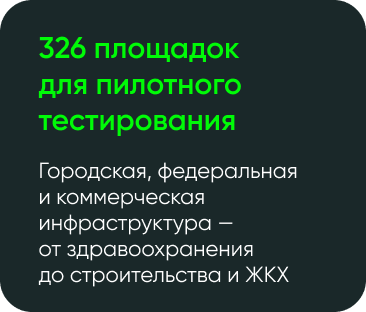
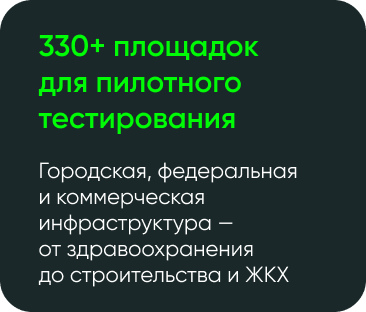
change mik-383

diff --git a/mik-383/Тестируйте инновации в Москве.html b/mik-383/Тестируйте инновации в Москве.html
@@ -102,7 +102,7 @@
                                         <tbody>
                                         <tr>
                                             <td style="width:600px;">
-                                                <a href="https://i.moscow/pilot?utm_source=marketing&utm_medium=email&utm_campaign=digital&utm_content=pilot&utm_term=16062026" target="_blank">
+                                                <a href="https://i.moscow/pilot?utm_source=marketing&utm_medium=email&utm_campaign=digital&utm_content=pilot&utm_term=13082026" target="_blank">
                                                     <img alt="Тестируйте инновации в Москве и получите грант до 4 млн ₽. Ваше решение – в реальных условиях мегаполиса. Нажмите здесь, чтобы оставить заявку." height="auto" src="https://cp.unisender.com/ru/user_file?resource=images&user_id=5608985&name=mik-383-hero.png" style="border:0;display:block;outline:none;text-decoration:none;height:auto;width:100%;font-size:13px;" width="600" />
                                                 </a>
                                             </td>
@@ -184,7 +184,7 @@
                                         <tbody>
                                         <tr>
                                             <td style="width:183px;">
-                                                <img alt="326 площадок для пилотного тестирования. Городская, федеральная и коммерческая инфраструктура — от здравоохранения до строительства и ЖКХ" height="auto" src="https://cp.unisender.com/ru/user_file?resource=images&user_id=5608985&name=mik-383-content-img-1_1.png" style="border:0;display:block;outline:none;text-decoration:none;height:auto;width:100%;font-size:13px;" width="183" />
+                                                <img alt="330+ площадок для пилотного тестирования. Городская, федеральная и коммерческая инфраструктура — от здравоохранения до строительства и ЖКХ" height="auto" src="https://cp.unisender.com/ru/user_file?resource=images&user_id=5608985&name=mik-383-content-img-1_1.png" style="border:0;display:block;outline:none;text-decoration:none;height:auto;width:100%;font-size:13px;" width="183" />
                                             </td>
                                         </tr>
                                         </tbody>
@@ -204,7 +204,7 @@
                                         <tbody>
                                         <tr>
                                             <td style="width:183px;">
-                                                <img alt="5,6+ млрд рублей. Сумма закупленных решений участников — реальные контракты, а не прогнозы в презентациях" height="auto" src="https://cp.unisender.com/ru/user_file?resource=images&user_id=5608985&name=mik-383-content-img-1_2.png" style="border:0;display:block;outline:none;text-decoration:none;height:auto;width:100%;font-size:13px;" width="183" />
+                                                <img alt="12+ млрд рублей. Сумма закупленных решений участников — реальные контракты, а не прогнозы в презентациях" height="auto" src="https://cp.unisender.com/ru/user_file?resource=images&user_id=5608985&name=mik-383-content-img-1_2.png" style="border:0;display:block;outline:none;text-decoration:none;height:auto;width:100%;font-size:13px;" width="183" />
                                             </td>
                                         </tr>
                                         </tbody>
@@ -224,7 +224,7 @@
                                         <tbody>
                                         <tr>
                                             <td style="width:183px;">
-                                                <img alt="780+ запущенных пилотных тестирований. Новые технологии, которые прошли этап апробации и получили реальный шанс на масштабирование" height="auto" src="https://cp.unisender.com/ru/user_file?resource=images&user_id=5608985&name=mik-383-content-img-1_3.png" style="border:0;display:block;outline:none;text-decoration:none;height:auto;width:100%;font-size:13px;" width="183" />
+                                                <img alt="800+ запущенных пилотных тестирований. Новые технологии, которые прошли этап апробации и получили реальный шанс на масштабирование" height="auto" src="https://cp.unisender.com/ru/user_file?resource=images&user_id=5608985&name=mik-383-content-img-1_3.png" style="border:0;display:block;outline:none;text-decoration:none;height:auto;width:100%;font-size:13px;" width="183" />
                                             </td>
                                         </tr>
                                         </tbody>
@@ -432,7 +432,7 @@
                                     <table border="0" cellpadding="0" cellspacing="0" role="presentation" style="border-collapse:separate;max-width:370px;width:100%;line-height:100%;">
                                         <tr>
                                             <td align="center" bgcolor="linear-gradient(80deg, #00FB07 34.41%, #00FED9 85.02%, #9FFFF6 103.22%)" role="presentation" style="border:none;border-radius:10px;cursor:auto;height:50px;mso-padding-alt:10px 25px;background:linear-gradient(80deg, #00FB07 34.41%, #00FED9 85.02%, #9FFFF6 103.22%);" valign="middle">
-                                                <a href="https://i.moscow/pilot?utm_source=marketing&utm_medium=email&utm_campaign=digital&utm_content=pilot&utm_term=16062026" style="display:inline-block;color:#000000;font-family:Gilroy, Helvetica, Arial, sans-serif;font-size:25px;font-weight:500;line-height:120%;margin:0;text-decoration:none;text-transform:none;mso-padding-alt:0px;border-radius:5px;" target="_blank">Протестировать решение</a>
+                                                <a href="https://i.moscow/pilot?utm_source=marketing&utm_medium=email&utm_campaign=digital&utm_content=pilot&utm_term=13082026" style="display:inline-block;color:#000000;font-family:Gilroy, Helvetica, Arial, sans-serif;font-size:25px;font-weight:500;line-height:120%;margin:0;text-decoration:none;text-transform:none;mso-padding-alt:0px;border-radius:5px;" target="_blank">Протестировать решение</a>
                                             </td>
                                         </tr>
                                     </table>
